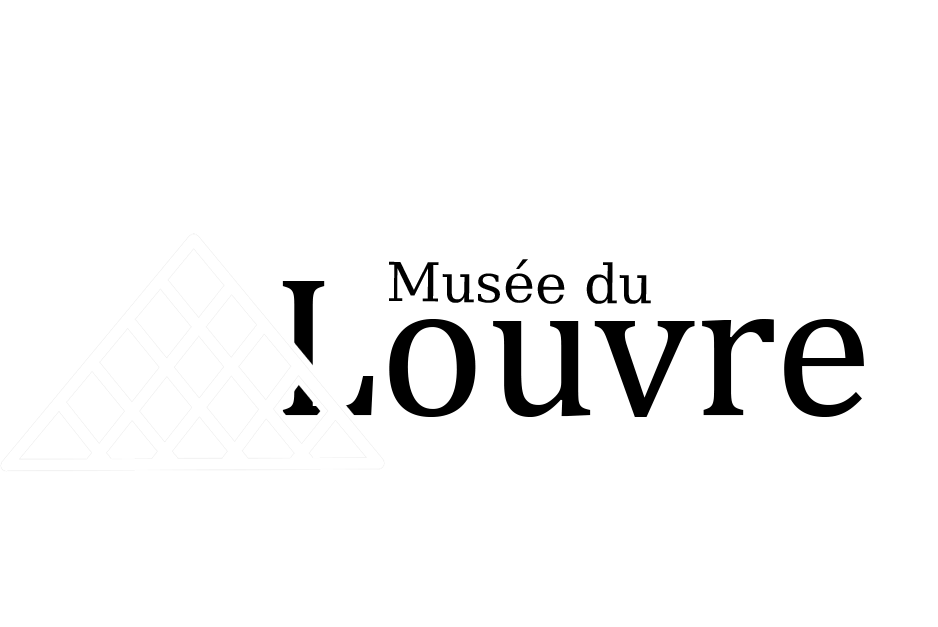
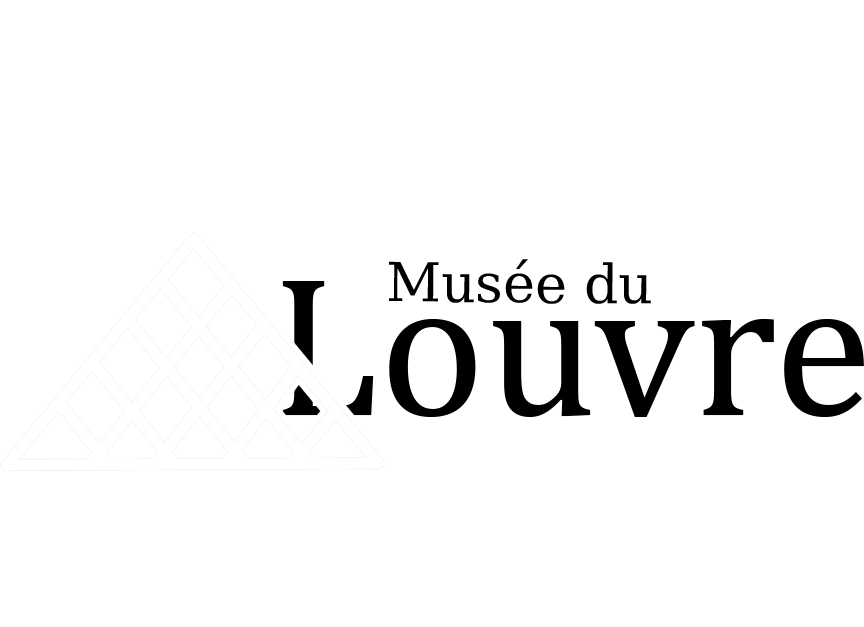
troisieme

Changed region(s): [[0.2812, 0.4242, 1.0, 0.6667], [0.3125, 0.4242, 0.375, 0.5758]]

diff --git a/index.html b/index.html
@@ -57,7 +57,7 @@
 					Fin 2016, ses collections comprenaient 554 731 œuvres, dont 35 000 exposées et 264 486 œuvres graphiques. Celles-ci présentent l'art occidental du Moyen Âge à 1848, celui des civilisations antiques qui l'ont précédé et influencé (orientales, égyptienne, grecque, étrusque et romaine), les arts des premiers chrétiens et de l'islam.
 					Situé dans le 1er arrondissement de Paris, sur la rive droite entre la Seine et la rue de Rivoli, le musée se signale par la pyramide de verre de son hall d'accueil, érigée en 1989 dans la cour Napoléon et qui en est devenue emblématique, tandis que la statue équestre de Louis XIV constitue le point de départ de l'axe historique parisien.
 				</p>
-				<p class="sources" > sources : <a class="sources" href="https://fr.wikipedia.org/wiki/Mus%C3%A9e_du_Louvre"> wikipedia</a></p>
+				<p class="sources" > sources : <a class="sources" href="https://fr.wikipedia.org/wiki/Mus%C3%A9e_du_Louvre"> <abbr title="clique pour y accéder"> wikipedia </abbr></a></p>
 			</div>
 		</div>
 		<div>
@@ -70,7 +70,7 @@
 					La construction du Louvre est indissociable de l'histoire de Paris. Elle s'étend sur plus de 800 ans, bien que le plan général du palais n'ait été imaginé qu'à la Renaissance. Charles V y établit sa résidence, donnant au palais un statut qu'il a conservé jusqu'au règne de Louis XIV.
 					Avec 10,2 millions de visiteurs en 2018 — dont un quart de Français —, c'est le musée le plus visité au monde3 et le site culturel le plus visité en France devant la tour Eiffel, la cathédrale Notre-Dame de Paris étant en tête des monuments à l'accès libre avec 13,6 millions de visiteurs estimés.
 				</p>
-				<p class="sources" > sources : <a class="sources" href="https://fr.wikipedia.org/wiki/Palais_du_Louvre"> wikipedia</a></p>
+				<p class="sources" > sources : <a class="sources" href="https://fr.wikipedia.org/wiki/Palais_du_Louvre"> <abbr title="clique pour y accéder"> wikipedia </abbr></a></p>
 			</div>
 		</div>
 	</div>

diff --git a/style.css b/style.css
@@ -1,15 +1,16 @@
 
+
+body, html
+{
+    width: 100%;
+    height: 100%;
+    background-color: #ebddd2;
+    font-family: 'Roboto', sans-serif;
+}
 *
 {
     padding: 0;
     margin: 0;
-}
-body
-{
-    width: auto;
-    height: auto;
-    background-color: #ebddd2;
-    font-family: 'Roboto', sans-serif;
 }
 a
 { 
@@ -81,7 +82,7 @@ a
     max-width: 1000px;
     min-width: 640px;
     left : 50%;
-    transform: translate(-43%, 0); 
+    transform: translate(-51%, 0); 
 }
 
 
@@ -209,4 +210,5 @@ div.image > div:hover
 #main > div > div > p.sources > a.sources
 {
     font-size: 13px;
+    text-decoration: none;
 }
